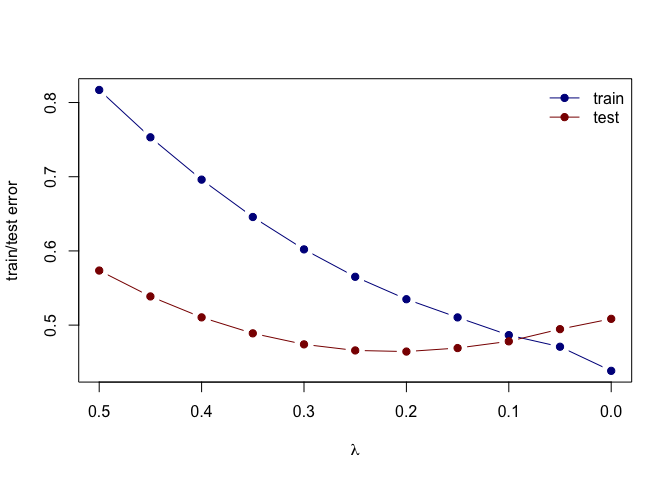
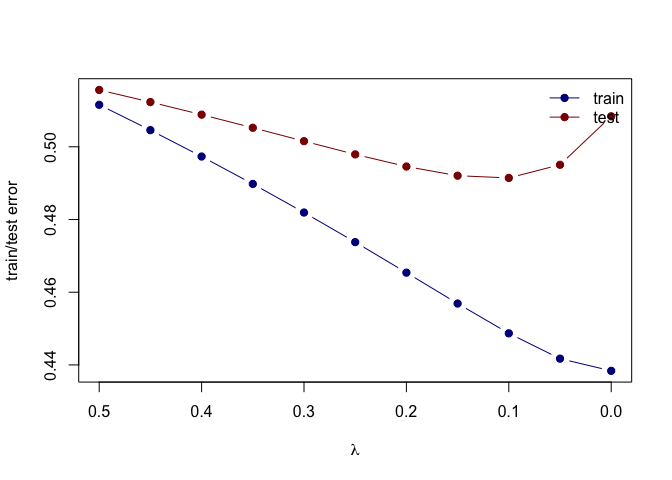
hw3 update

diff --git a/Homework3/homework3.md b/Homework3/homework3.md
@@ -28,9 +28,9 @@ library('tidyverse')
     ## ── Attaching packages ─────────────────────────────────────── tidyverse 1.3.1 ──
 
     ## ✓ ggplot2 3.3.5     ✓ purrr   0.3.4
-    ## ✓ tibble  3.1.4     ✓ dplyr   1.0.7
-    ## ✓ tidyr   1.1.3     ✓ stringr 1.4.0
-    ## ✓ readr   2.0.1     ✓ forcats 0.5.1
+    ## ✓ tibble  3.1.6     ✓ dplyr   1.0.7
+    ## ✓ tidyr   1.1.4     ✓ stringr 1.4.0
+    ## ✓ readr   2.0.2     ✓ forcats 0.5.1
 
     ## ── Conflicts ────────────────────────────────────────── tidyverse_conflicts() ──
     ## x dplyr::filter() masks stats::filter()
@@ -154,7 +154,7 @@ cor(prostate_train)
 
 # Treat lcavol as the outcome, and use all other variables in the data set as predictors.
 
-\#With the training subset of the prostate data, train a least-squares
+#With the training subset of the prostate data, train a least-squares
 regression model with all predictors using the lm function.
 
 ``` r
@@ -220,7 +220,7 @@ error(prostate_test, fit)
 form  <- lcavol ~  lweight + age + lbph + lcp + pgg45 + lpsa + svi + gleason
 x_inp <- model.matrix(form, data=prostate_train)
 y_out <- prostate_train$lcavol
-fit <- glmnet(x=x_inp, y=y_out, lambda=seq(0.5, 0, -0.05))
+fit <- glmnet(x=x_inp, y=y_out, lambda=seq(0.5, 0, -0.05),alpha=0)
 print(fit$beta)
 ```
 
@@ -228,26 +228,36 @@ print(fit$beta)
 
     ##    [[ suppressing 11 column names 's0', 's1', 's2' ... ]]
 
-    ##                                                                        
-    ## (Intercept) .         .         .         .         .         .        
-    ## lweight     .         .         .         .         .         .        
-    ## age         .         .         .         .         .         .        
-    ## lbph        .         .         .         .         .         .        
-    ## lcp         0.1473018 0.1714414 0.1955919 0.2197423 0.2438928 0.2680433
-    ## pgg45       .         .         .         .         .         .        
-    ## lpsa        0.2535992 0.2816134 0.3096214 0.3376294 0.3656374 0.3936454
-    ## svi         .         .         .         .         .         .        
-    ## gleason     .         .         .         .         .         .        
-    ##                                                                         
-    ## (Intercept) .         .            .            .            .          
-    ## lweight     .         .            .            .           -0.113959029
-    ## age         .         0.0006179005 0.005823836  0.010987417  0.020114429
-    ## lbph        .         .            .           -0.004060083 -0.056959719
-    ## lcp         0.2921937 0.3160341041 0.337951116  0.352226351  0.418442122
-    ## pgg45       .         .            .            .           -0.009110807
-    ## lpsa        0.4216534 0.4489636282 0.470877681  0.491246304  0.575583816
-    ## svi         .         .            .            0.026126960  0.035184640
-    ## gleason     .         .            .            0.011159844  0.224210312
+    ##                                                                    
+    ## (Intercept)  .             .             .             .           
+    ## lweight      0.0993164708  9.167566e-02  0.0826683948  0.0719539791
+    ## age          0.0129153943  1.324527e-02  0.0136179441  0.0140406458
+    ## lbph        -0.0145798645 -1.634009e-02 -0.0183250211 -0.0206075810
+    ## lcp          0.2406189663  2.481045e-01  0.2566365965  0.2662889674
+    ## pgg45        0.0002559092 -6.282802e-05 -0.0004352183 -0.0008738898
+    ## lpsa         0.3427088262  3.542773e-01  0.3670625828  0.3813402190
+    ## svi          0.3767521726  3.693591e-01  0.3595330020  0.3468674180
+    ## gleason      0.1379543516  1.394770e-01  0.1413173561  0.1436779615
+    ##                                                                             
+    ## (Intercept)  .            .            .            .            .          
+    ## lweight      0.059127616  0.043652593  0.024777969  0.001504802 -0.027603986
+    ## age          0.014526957  0.015088490  0.015748487  0.016532948  0.017480107
+    ## lbph        -0.023258103 -0.026377963 -0.030098852 -0.034621150 -0.040241264
+    ## lcp          0.277447149  0.290342311  0.305728439  0.324372008  0.347616547
+    ## pgg45       -0.001398912 -0.002031353 -0.002810371 -0.003788173 -0.005050263
+    ## lpsa         0.397429712  0.415786556  0.437009864  0.461951799  0.491849702
+    ## svi          0.330415198  0.309283880  0.281608260  0.245177911  0.196427346
+    ## gleason      0.146778188  0.150949425  0.156678907  0.164800413  0.176722769
+    ##                                      
+    ## (Intercept)  .            .          
+    ## lweight     -0.064680201 -0.113137304
+    ## age          0.018643148  0.020098181
+    ## lbph        -0.047425776 -0.056962692
+    ## lcp          0.377657417  0.418431830
+    ## pgg45       -0.006739814 -0.009116838
+    ## lpsa         0.528596455  0.575318051
+    ## svi          0.129711598  0.035342349
+    ## gleason      0.194999807  0.224585243
 
 ``` r
 ## functions to compute testing/training error with glmnet
@@ -269,91 +279,91 @@ error(prostate_train, fit, lam=0, form=form)
 error(prostate_test, fit, lam=0, form=form)
 ```
 
-    ## [1] 0.5084581
+    ## [1] 0.5083923
 
 ``` r
 ## train_error at lambda=0.01
 error(prostate_train, fit, lam=0.01, form=form)
 ```
 
-    ## [1] 0.4396679
+    ## [1] 0.4385064
 
 ``` r
 ## testing error at lambda=0.01
 error(prostate_test, fit, lam=0.01, form=form)
 ```
 
-    ## [1] 0.4976341
+    ## [1] 0.5047688
 
 ``` r
 ## train_error at lambda=0.02
 error(prostate_train, fit, lam=0.02, form=form)
 ```
 
-    ## [1] 0.4435656
+    ## [1] 0.4389101
 
 ``` r
 ## testing error at lambda=0.02
 error(prostate_test, fit, lam=0.02, form=form)
 ```
 
-    ## [1] 0.4908349
+    ## [1] 0.5016231
 
 ``` r
 ## train_error at lambda=0.03
 error(prostate_train, fit, lam=0.03, form=form)
 ```
 
-    ## [1] 0.4500642
+    ## [1] 0.4395821
 
 ``` r
 ## testing error at lambda=0.03
 error(prostate_test, fit, lam=0.03, form=form)
 ```
 
-    ## [1] 0.4880606
+    ## [1] 0.498955
 
 ``` r
 ## train_error at lambda=0.04
 error(prostate_train, fit, lam=0.04, form=form)
 ```
 
-    ## [1] 0.4591635
+    ## [1] 0.4405224
 
 ``` r
 ## testing error at lambda=0.04
 error(prostate_test, fit, lam=0.04, form=form)
 ```
 
-    ## [1] 0.4893111
+    ## [1] 0.4967647
 
 ``` r
 ## train_error at lambda=0.05
 error(prostate_train, fit, lam=0.05, form=form)
 ```
 
-    ## [1] 0.4708637
+    ## [1] 0.4417309
 
 ``` r
 ## testing error at lambda=0.05
 error(prostate_test, fit, lam=0.05, form=form)
 ```
 
-    ## [1] 0.4945864
+    ## [1] 0.4950521
 
 ``` r
 ## train_error at lambda=0.06
 error(prostate_train, fit, lam=0.06, form=form)
 ```
 
-    ## [1] 0.4732063
+    ## [1] 0.4428172
 
 ``` r
 ## testing error at lambda=0.06
 error(prostate_test, fit, lam=0.06, form=form)
 ```
 
-    ## [1] 0.4906623
+    ## [1] 0.4937929
 
 # Train a ridge regression model using the glmnet function, and tune the value of lambda (i.e., use guess and check to find the value of lambda that approximately minimizes the test error).
 
